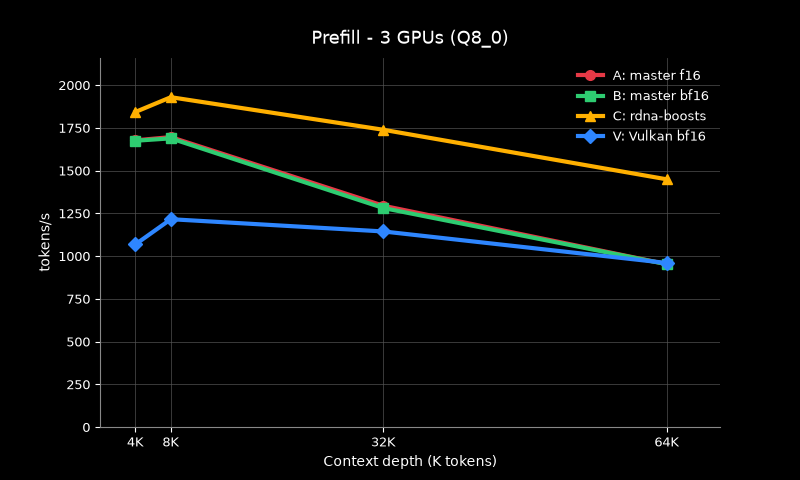
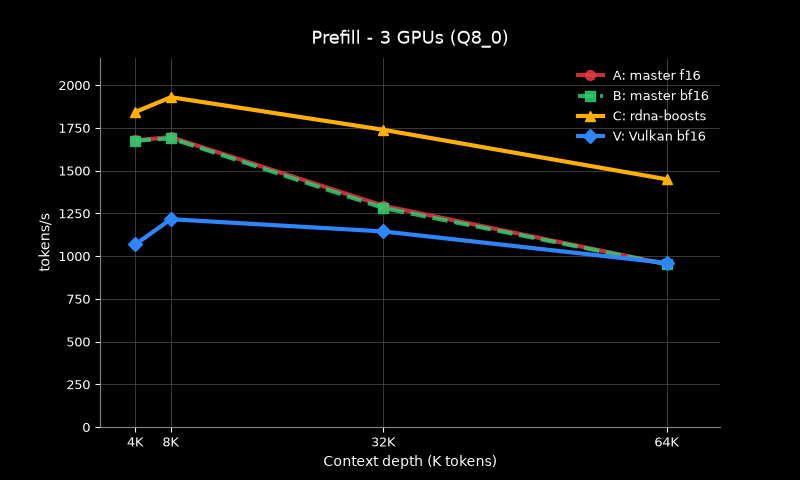
benchmarks: alpha-blend coincident A/B lines, dash B
A (master f16) and B (master bf16) nearly coincide on prefill, so B
hides A. Both now draw at alpha 0.85 (RGBA blending shows the overlap
as a red+green composite) and B switches to a dashed linestyle so the
two interleave visibly; C and V stay full-strength solid.

diff --git a/benchmarks/scripts/make-graphs.py b/benchmarks/scripts/make-graphs.py
@@ -16,10 +16,13 @@ import matplotlib.pyplot as plt
 DEPTHS = [4, 8, 32, 64]  # K tokens (linear x-axis)
 
 SERIES = [
-    ("A: master f16",  "#E63946", "o"),
-    ("B: master bf16", "#2ECC71", "s"),
-    ("C: rdna-boosts", "#FFB000", "^"),
-    ("V: Vulkan bf16", "#2E86FF", "D"),
+    # (label, color, marker, linestyle, alpha)
+    # A and B nearly coincide on prefill; alpha-blend them and dash B so the
+    # overlap is visible instead of B hiding A. C and V stay full-strength.
+    ("A: master f16",  "#E63946", "o", "-",  0.85),
+    ("B: master bf16", "#2ECC71", "s", "--", 0.85),
+    ("C: rdna-boosts", "#FFB000", "^", "-",  1.0),
+    ("V: Vulkan bf16", "#2E86FF", "D", "-",  1.0),
 ]
 
 TABLES = {
@@ -61,8 +64,9 @@ def plot(name, meta):
     fig.patch.set_facecolor("black")
     ax.set_facecolor("black")
 
-    for key, color, marker in SERIES:
+    for key, color, marker, ls, alpha in SERIES:
         ax.plot(DEPTHS, meta[key[0]], color=color, marker=marker,
+                linestyle=ls, alpha=alpha,
                 linewidth=3, markersize=7, label=key, zorder=3)
 
     ax.set_title(meta["title"], color="white", fontsize=13, pad=10)
